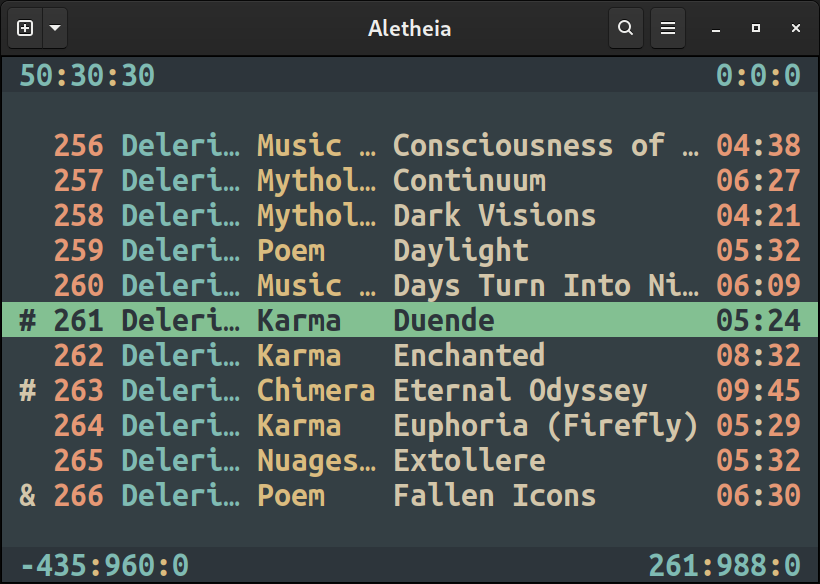
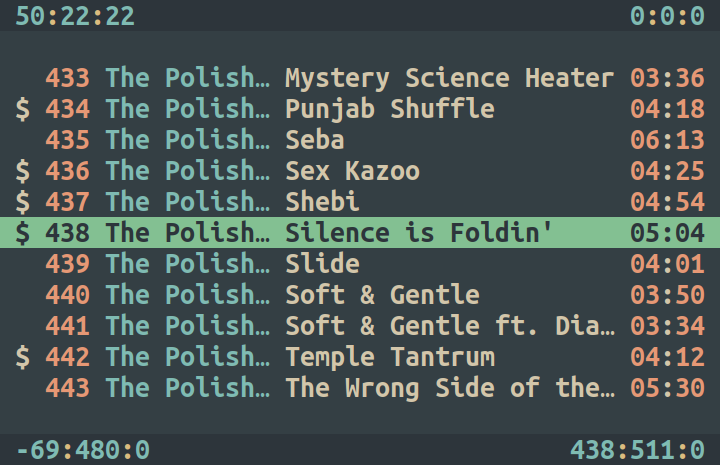
- Improved support for foreign multi-byte characters. - Added perl dependency. - Fixed a bug where filenames with '[' and ']' characters would cause a glitch. - Disabled album view for now.

diff --git a/README.md b/README.md
@@ -90,6 +90,7 @@ sudo installpkg /tmp/aletheia-0.9.6-noarch-"$(awk -F'[-}]' '/^BUILD=/ {print $2}
 - ffprobe
 - mplayer
 - pactl
+- perl
 - sox
 - sqlite3
 - vim
